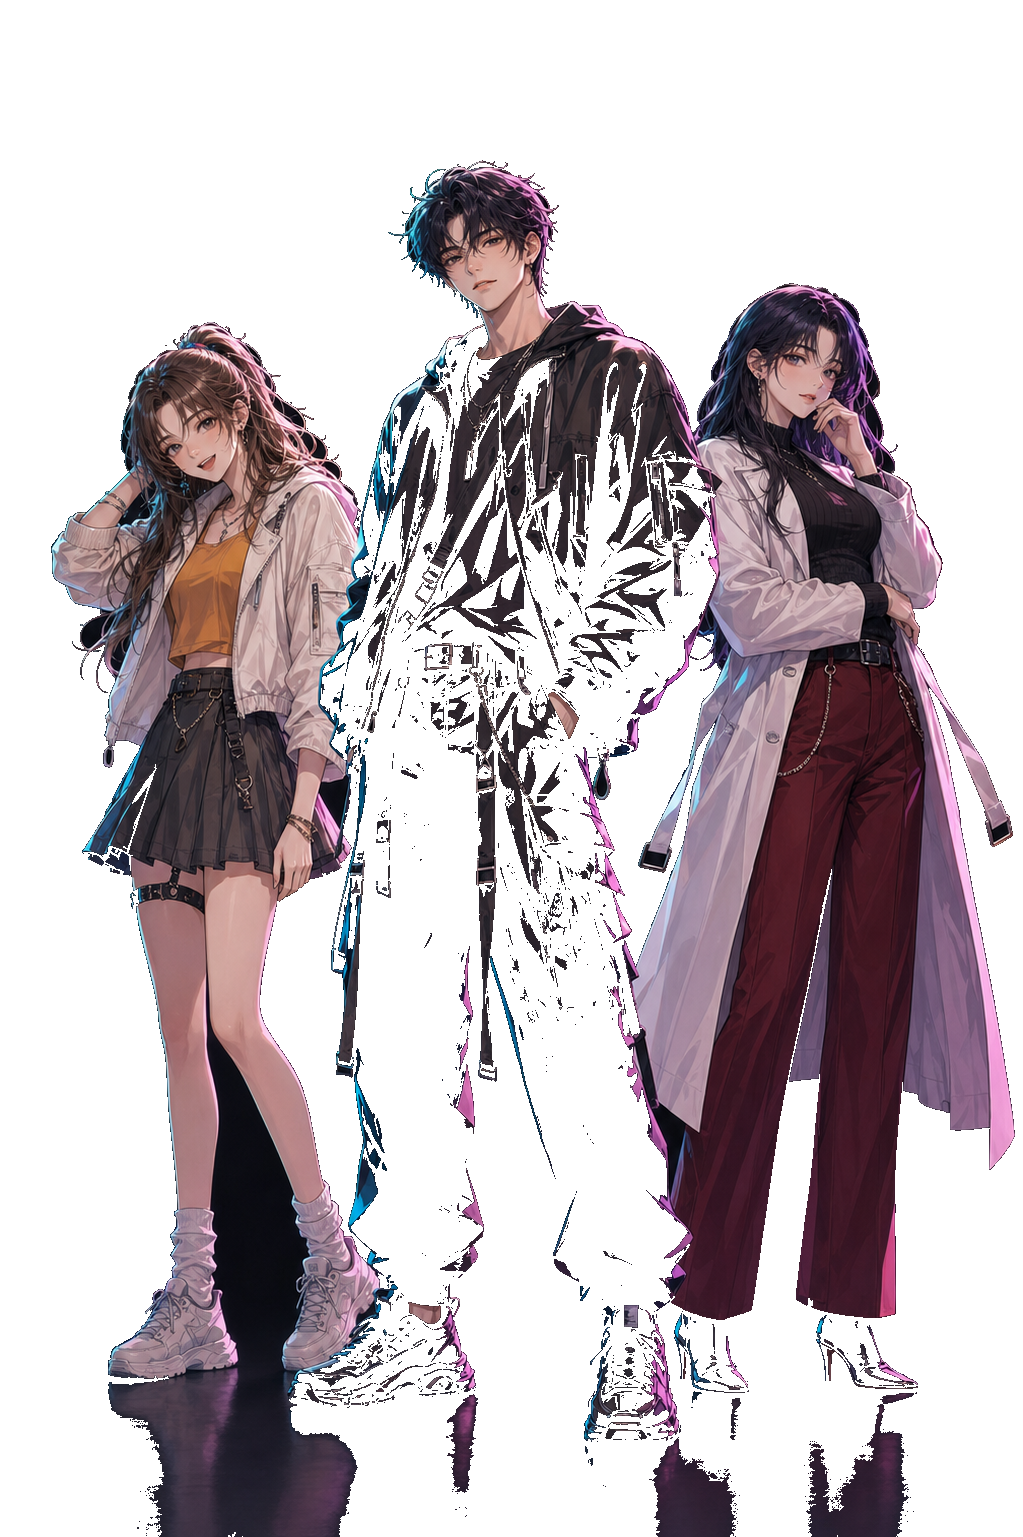
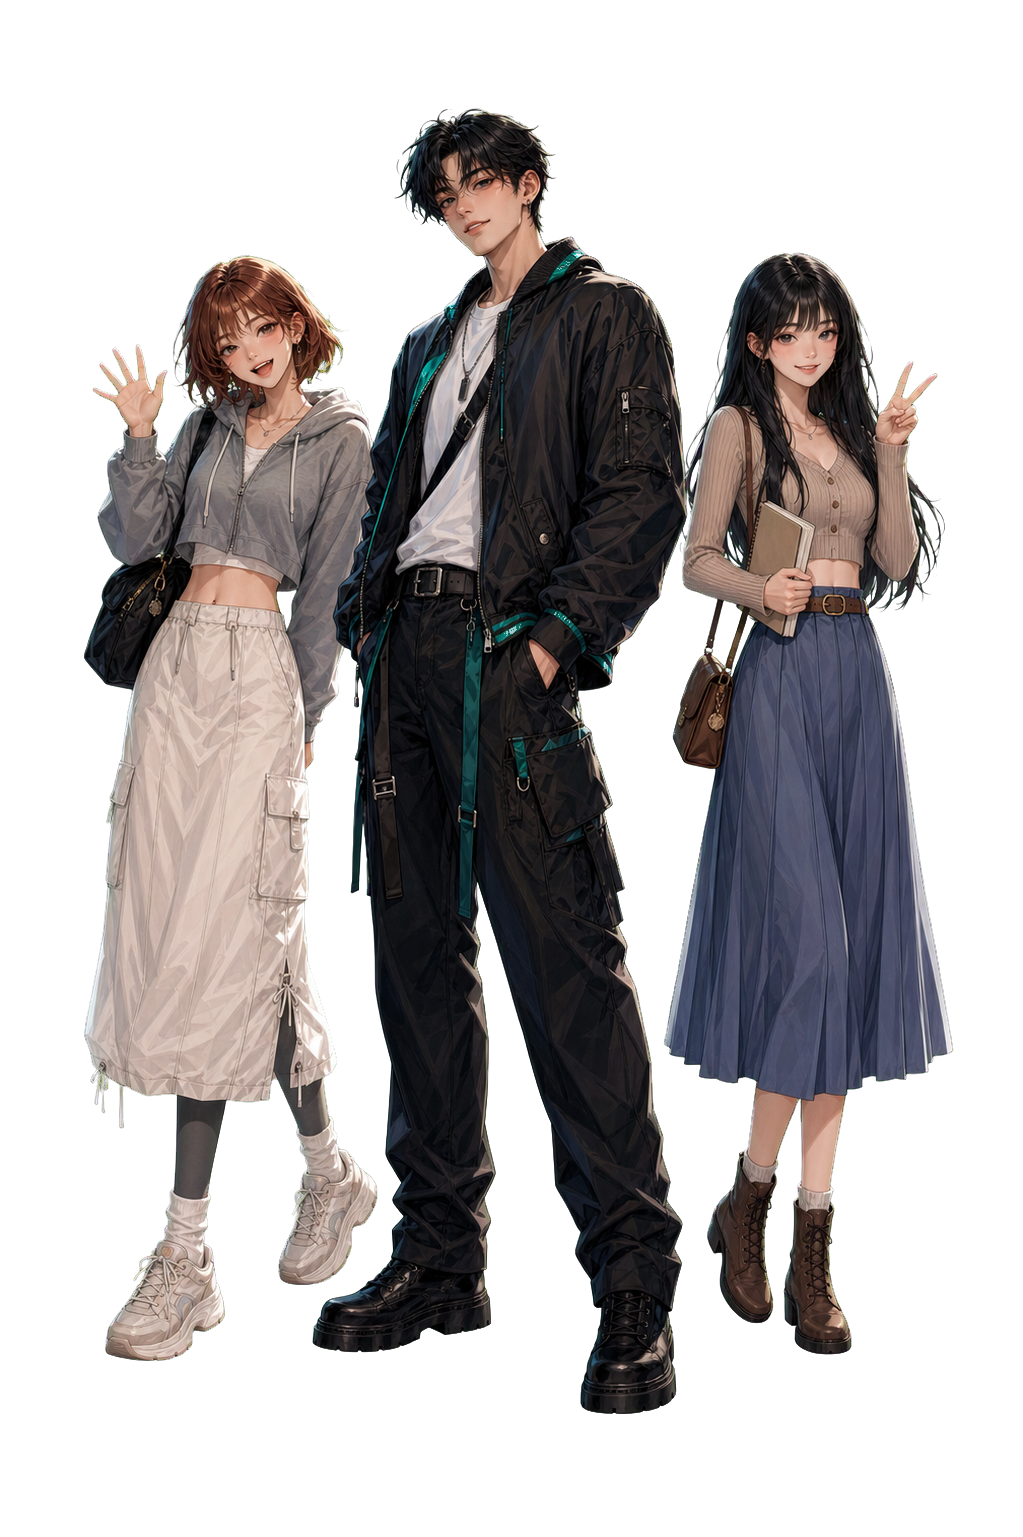
Fix ooparts landing hero clipping

diff --git a/ooparts/assets/landing/styles.css b/ooparts/assets/landing/styles.css
@@ -14,6 +14,8 @@
     --coral: #ff9a8b;
     --gold: #ffd48a;
     --shadow: 0 34px 90px rgba(0, 0, 0, 0.42);
+    --market-width: 176px;
+    --market-height: 52px;
 }
 
 * {
@@ -193,6 +195,12 @@ img {
     overflow-wrap: break-word;
 }
 
+.hero h1[data-enter] {
+    opacity: 1;
+    transform: none;
+    animation: none;
+}
+
 .hero__copy {
     max-width: 530px;
     margin: 22px 0 0;
@@ -200,6 +208,8 @@ img {
     font-size: 17px;
     line-height: 1.72;
     font-weight: 500;
+    word-break: keep-all;
+    overflow-wrap: break-word;
 }
 
 .hero__actions {
@@ -214,16 +224,21 @@ img {
     display: inline-flex;
     align-items: center;
     justify-content: center;
-    box-sizing: border-box;
-    height: 52px;
     text-decoration: none;
     transition: transform 180ms ease, border-color 180ms ease, background 180ms ease, color 180ms ease;
 }
 
 .market-button {
+    width: var(--market-width);
+    height: var(--market-height);
     border-radius: 8px;
     overflow: hidden;
+    background: transparent;
     line-height: 0;
+}
+
+.market-button--google-play {
+    border: 1px solid rgba(255, 255, 255, 0.68);
 }
 
 .market-button:hover,
@@ -244,50 +259,58 @@ img {
 .market-badge {
     display: block;
     width: auto;
-    max-width: 100%;
-    height: 52px;
+    max-width: none;
+    height: auto;
 }
 
 .market-badge--app-store {
-    height: 52px;
-}
-
-.market-button--google-play {
-    width: 176px;
+    width: var(--market-width);
+    height: var(--market-height);
+    object-fit: fill;
 }
 
 .market-badge--google-play {
-    max-width: none;
-    height: 68px;
+    width: var(--market-width);
+    height: auto;
     margin: -8px 0;
 }
 
 .hero__visual {
     position: relative;
     align-self: stretch;
-    min-height: clamp(590px, 52vw, 680px);
+    min-height: clamp(830px, 63vw, 902px);
     margin: 0;
     overflow: hidden;
 }
 
-.hero__visual::before {
+.hero__visual::after {
     content: "";
     position: absolute;
-    inset: 8% 2% 0;
-    background: radial-gradient(ellipse at 58% 48%, rgba(6, 6, 10, 0.98) 0%, rgba(6, 6, 10, 0.86) 56%, rgba(6, 6, 10, 0) 78%);
     pointer-events: none;
+}
+
+.hero__visual::after {
+    left: 50%;
+    bottom: clamp(2px, 1.4vw, 16px);
+    width: min(64%, 460px);
+    height: clamp(34px, 4vw, 56px);
+    border-radius: 50%;
+    background: radial-gradient(ellipse at center, rgba(0, 0, 0, 0.48) 0%, rgba(0, 0, 0, 0.2) 42%, rgba(0, 0, 0, 0) 72%);
+    transform: translateX(-48%);
+    filter: blur(4px);
+    z-index: 1;
 }
 
 .hero__visual img {
     --hero-character-x: -50%;
     position: absolute;
     left: 50%;
-    bottom: clamp(-190px, -11vw, -120px);
-    width: clamp(440px, 43vw, 560px);
+    bottom: 0;
+    width: clamp(520px, 43vw, 600px);
     max-width: none;
     transform: translateX(var(--hero-character-x));
-    z-index: 1;
-    filter: drop-shadow(0 28px 58px rgba(0, 0, 0, 0.58));
+    z-index: 2;
+    filter: drop-shadow(0 30px 64px rgba(0, 0, 0, 0.64));
     animation: portraitFloat 8s ease-in-out infinite alternate;
 }
 
@@ -597,15 +620,20 @@ img {
     }
 
     .hero__visual {
-        min-height: clamp(430px, 63vw, 540px);
+        display: flex;
+        justify-content: center;
+        min-height: 0;
         order: -1;
+        overflow: visible;
     }
 
     .hero__visual img {
+        position: relative;
+        left: auto;
         right: auto;
-        bottom: clamp(-220px, -20vw, -150px);
-        width: min(76vw, 500px);
-        transform: translateX(var(--hero-character-x));
+        bottom: auto;
+        width: min(82vw, 500px);
+        transform: none;
         animation: none;
     }
 
@@ -639,34 +667,26 @@ img {
     }
 
     .hero {
-        padding: 126px 20px 56px;
-    }
-
-    .hero__text {
-        width: 100%;
-        min-width: 0;
-        max-width: 100%;
+        padding: 170px 20px 56px;
     }
 
     .hero__visual {
-        display: block;
-        min-height: clamp(350px, 78vw, 430px);
+        min-height: 0;
     }
 
     .hero__visual img {
-        position: absolute;
+        position: relative;
+        left: auto;
         right: auto;
-        bottom: clamp(-122px, -24vw, -86px);
-        width: min(84vw, 360px);
+        bottom: auto;
+        width: min(92vw, 460px);
         max-width: none;
-        transform: translateX(var(--hero-character-x));
+        transform: none;
     }
 
     .hero h1 {
         font-size: 36px;
         line-height: 1.1;
-        max-width: 100%;
-        overflow-wrap: anywhere;
     }
 
     .hero__copy,
@@ -676,12 +696,8 @@ img {
     }
 
     .hero__actions {
-        align-items: stretch;
+        align-items: center;
         flex-direction: column;
-    }
-
-    .market-button {
-        width: 100%;
     }
 
     .showcase,

diff --git a/ooparts/index.html b/ooparts/index.html
@@ -18,7 +18,7 @@
     <link rel="preconnect" href="https://fonts.googleapis.com">
     <link rel="preconnect" href="https://fonts.gstatic.com" crossorigin>
     <link href="https://fonts.googleapis.com/css2?family=Inter:wght@400;500;600;700;800;900&family=Noto+Sans+KR:wght@400;500;700;900&display=swap" rel="stylesheet">
-    <link rel="stylesheet" href="/ooparts/assets/landing/styles.css?v=20260516-hero-crop">
+    <link rel="stylesheet" href="/ooparts/assets/landing/styles.css?v=20260517-mobile-no-clip">
     <script src="/ooparts/assets/landing/main.js?v=20260501-card-deck" defer></script>
 </head>
 
@@ -52,7 +52,7 @@
                     </div>
                 </div>
                 <figure class="hero__visual" data-enter style="--enter-delay: 260ms;">
-                    <img src="/ooparts/assets/landing/hero-characters.png?v=20260516-three-character" alt="" fetchpriority="high" decoding="async">
+                    <img src="/ooparts/assets/landing/hero-characters.png?v=20260516-trio-corrected-fullbody" alt="" fetchpriority="high" decoding="async">
                 </figure>
             </div>
         </section>

diff --git a/ooparts/ja/index.html b/ooparts/ja/index.html
@@ -18,7 +18,7 @@
     <link rel="preconnect" href="https://fonts.googleapis.com">
     <link rel="preconnect" href="https://fonts.gstatic.com" crossorigin>
     <link href="https://fonts.googleapis.com/css2?family=Inter:wght@400;500;600;700;800;900&family=Noto+Sans+JP:wght@400;500;700;900&display=swap" rel="stylesheet">
-    <link rel="stylesheet" href="/ooparts/assets/landing/styles.css?v=20260516-hero-crop">
+    <link rel="stylesheet" href="/ooparts/assets/landing/styles.css?v=20260517-mobile-no-clip">
     <script src="/ooparts/assets/landing/main.js?v=20260501-card-deck" defer></script>
 </head>
 
@@ -52,7 +52,7 @@
                     </div>
                 </div>
                 <figure class="hero__visual" data-enter style="--enter-delay: 260ms;">
-                    <img src="/ooparts/assets/landing/hero-characters.png?v=20260516-three-character" alt="" fetchpriority="high" decoding="async">
+                    <img src="/ooparts/assets/landing/hero-characters.png?v=20260516-trio-corrected-fullbody" alt="" fetchpriority="high" decoding="async">
                 </figure>
             </div>
         </section>

diff --git a/ooparts/zh-tw/index.html b/ooparts/zh-tw/index.html
@@ -18,7 +18,7 @@
     <link rel="preconnect" href="https://fonts.googleapis.com">
     <link rel="preconnect" href="https://fonts.gstatic.com" crossorigin>
     <link href="https://fonts.googleapis.com/css2?family=Inter:wght@400;500;600;700;800;900&family=Noto+Sans+TC:wght@400;500;700;900&display=swap" rel="stylesheet">
-    <link rel="stylesheet" href="/ooparts/assets/landing/styles.css?v=20260516-hero-crop">
+    <link rel="stylesheet" href="/ooparts/assets/landing/styles.css?v=20260517-mobile-no-clip">
     <script src="/ooparts/assets/landing/main.js?v=20260501-card-deck" defer></script>
 </head>
 
@@ -52,7 +52,7 @@
                     </div>
                 </div>
                 <figure class="hero__visual" data-enter style="--enter-delay: 260ms;">
-                    <img src="/ooparts/assets/landing/hero-characters.png?v=20260516-three-character" alt="" fetchpriority="high" decoding="async">
+                    <img src="/ooparts/assets/landing/hero-characters.png?v=20260516-trio-corrected-fullbody" alt="" fetchpriority="high" decoding="async">
                 </figure>
             </div>
         </section>

diff --git a/ooparts/en/index.html b/ooparts/en/index.html
@@ -18,7 +18,7 @@
     <link rel="preconnect" href="https://fonts.googleapis.com">
     <link rel="preconnect" href="https://fonts.gstatic.com" crossorigin>
     <link href="https://fonts.googleapis.com/css2?family=Inter:wght@400;500;600;700;800;900&display=swap" rel="stylesheet">
-    <link rel="stylesheet" href="/ooparts/assets/landing/styles.css?v=20260516-hero-crop">
+    <link rel="stylesheet" href="/ooparts/assets/landing/styles.css?v=20260517-mobile-no-clip">
     <script src="/ooparts/assets/landing/main.js?v=20260501-card-deck" defer></script>
 </head>
 
@@ -52,7 +52,7 @@
                     </div>
                 </div>
                 <figure class="hero__visual" data-enter style="--enter-delay: 260ms;">
-                    <img src="/ooparts/assets/landing/hero-characters.png?v=20260516-three-character" alt="" fetchpriority="high" decoding="async">
+                    <img src="/ooparts/assets/landing/hero-characters.png?v=20260516-trio-corrected-fullbody" alt="" fetchpriority="high" decoding="async">
                 </figure>
             </div>
         </section>
